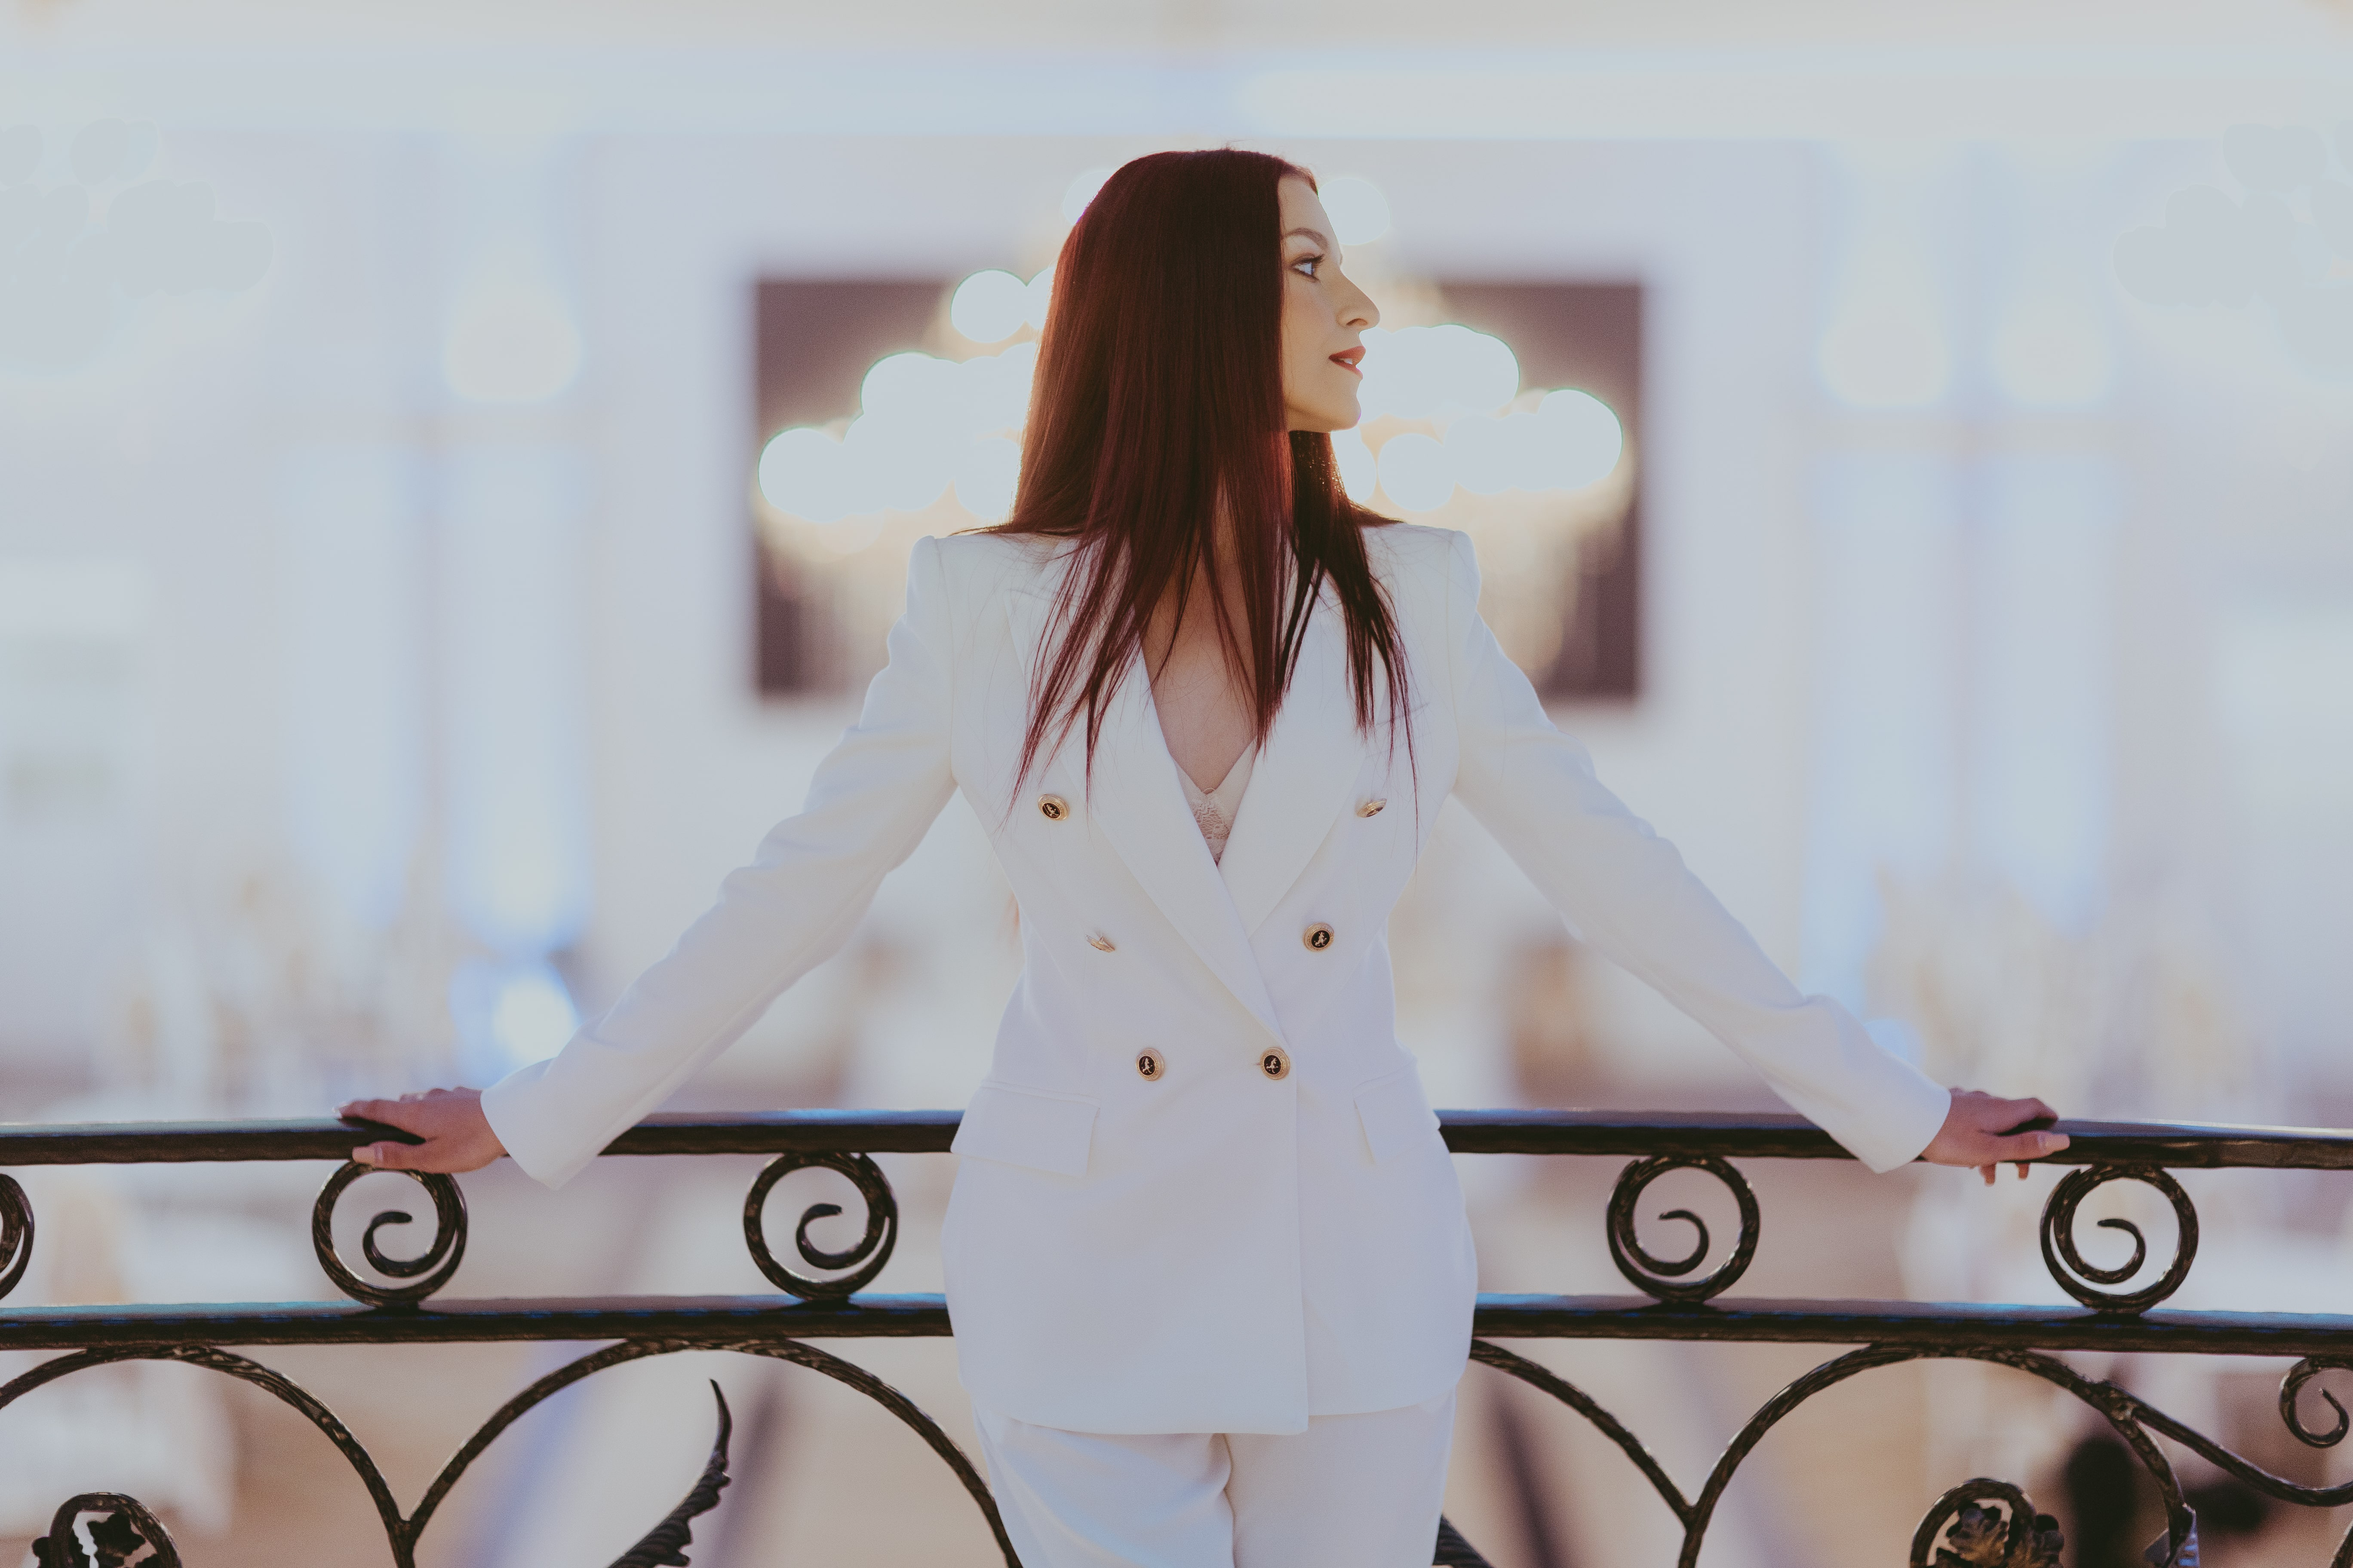
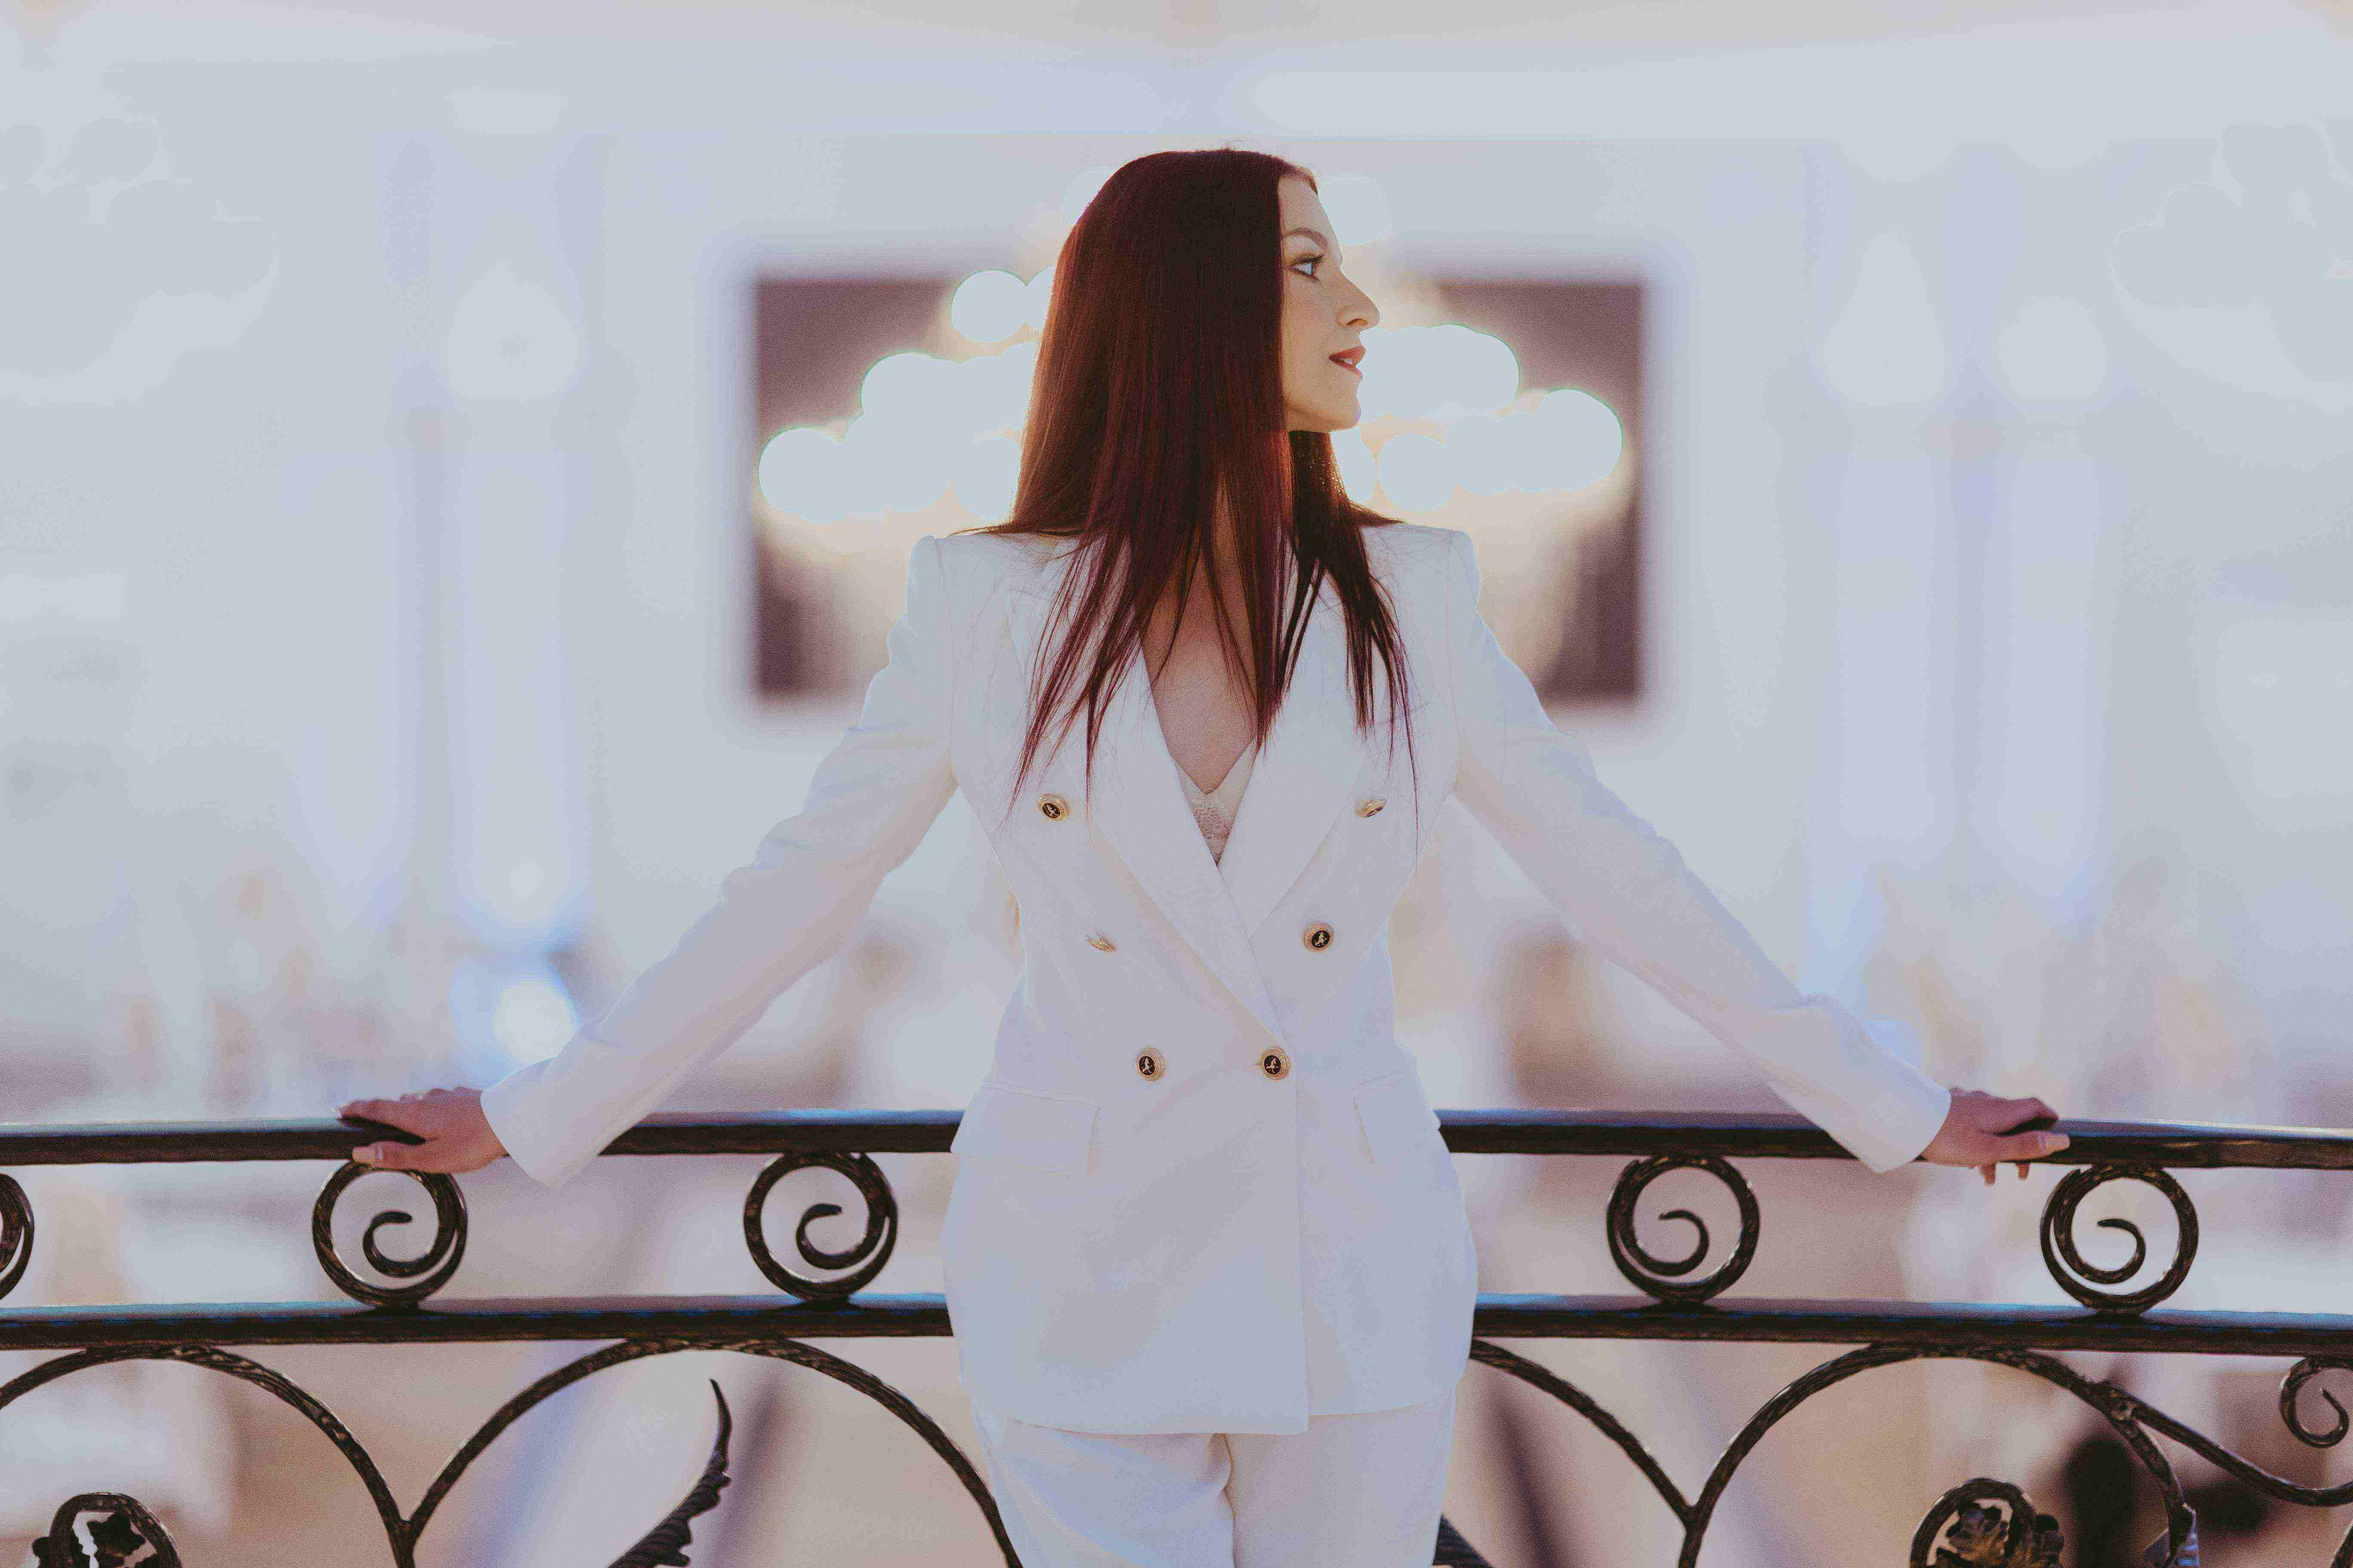
modificari coperta + resize

Changed region(s): [[0.9062, 0.875, 1.0, 1.0], [0.4375, 0.3438, 0.5, 0.4688], [0.8438, 0.7188, 0.875, 0.75]]

diff --git a/gulpfile.js b/gulpfile.js
@@ -14,11 +14,11 @@ gulp.task('delete', function () {
 gulp.task('resize-images', function () {
     return gulp.src('images/*.*')
         .pipe(imageResize({
-            quality: 0.99
+            quality: 0.2
         }))
         .pipe(gulp.dest('images/fulls'))
         .pipe(imageResize({
-            quality: 0.98
+            quality: 0.1
         }))
         .pipe(gulp.dest('images/thumbs'));
 });
